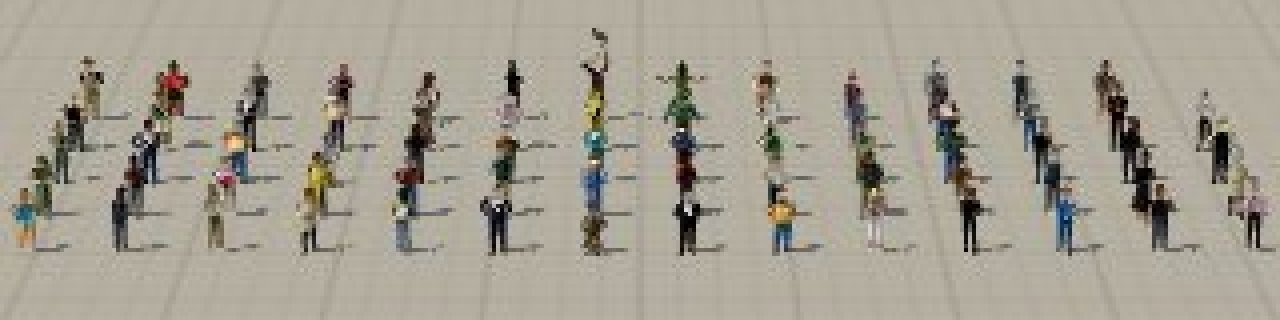
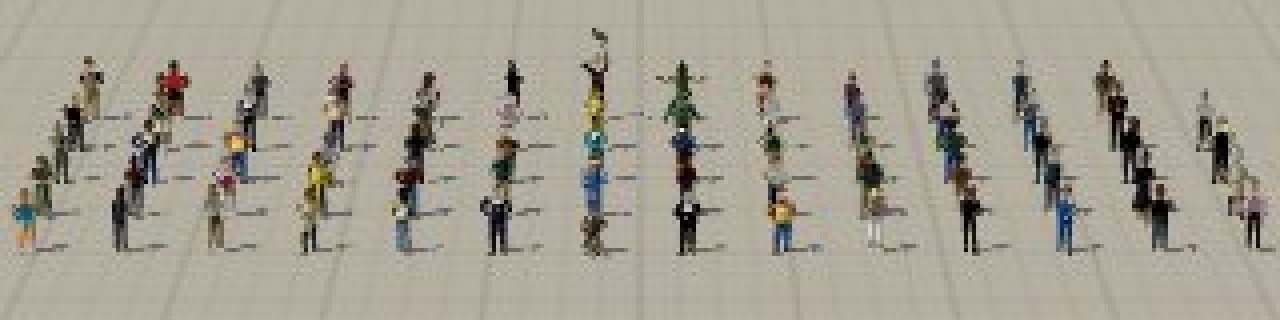
People: reports with the measured numbers, fresh after pictures
docs/cars-look/people.md (short) and peds.md (long): old -> new triangles,
draw calls, attributes, foot probe, crowd bench (120 people: 603 / 614 / 517 ms
old, 1284 / 155 / 465 ms new), in-game triangles, tests. After pictures of
8 m, 30 m, 100 m and idle taken again from the final code, plus the near/far
switch sheet.

Claude-Session: https://claude.ai/code/session_01Lxgge5PwKwfisa25smjHov

diff --git a/docs/cars-look/people.md b/docs/cars-look/people.md
@@ -9,31 +9,75 @@ position; `personLooks.ts` turns each archetype's look fields in `people.ts` int
 skeleton: a walk with heel strike, foot roll and a planted foot (the leg phase is ground / `STRIDE`, and each person's stride is tied
 to leg length), swing arc, knee bend by two-bone IK, opposite arm swing, pelvis/chest counter-rotation, bob from leg reach; a run
 cycle with a flight phase; eight walk styles; eight idle habits with weight shift and head look-arounds; a pose for each of the
-14 actions. Still 2 draw calls (`people-aa`: near + far), 14 vertex attributes (was 16). Names, bios and behaviour fields of the cast
+14 actions. Still instanced, 2 draw calls for the figures (`people-aa`: near + far) plus one pose draw for the whole population, 9 vertex attributes (was 16). Names, bios and behaviour fields of the cast
 are unchanged; 29 look fields (body, outfit, hair, hat, prop) of existing archetypes were changed. Pedestrian movement
 (`pedestrians.ts`) is untouched.
 
 ## Numbers (old -> new)
 
-{{NUMBERS}}
+| | old | new |
+|---|---|---|
+| triangles a person shows, near (mean / max) | 429 / 532 | 768 / 958 (1.79x / 1.80x, budget 2x) |
+| triangles a person shows, far | 92 | 210 (max 243) |
+| geometry held per level (near / far) | 1196 / 92 triangles | 3117 / 497 triangles (indexed: 3464 / 679 vertices, was 3588 / 276) |
+| vertex attributes | 16 (the WebGL2 minimum) | 9 (per-person data in a 6 x N float texture) |
+| draw calls, `people-aa` | 2 (+1 near again in the shadow pass) = 3 | 2 (+1 far in the shadow pass) = 3, plus one pose draw for the whole population |
+| feet on the ground, GPU probe, 7 archetypes walking and running | soles 3.2 to 6.5 cm above the pavement; a foot on the ground moves at 144 to 161 % of the ground speed; both feet off the ground 23 to 48 % (walk), 67 to 71 % (run) | soles 0.3 to 0.4 cm below the pavement line (on it); mean slide 1.4 to 5.6 % of the ground speed, elder shuffle 9.1 %; never airborne walking, 4 to 19 % running (a real flight phase) |
+| foot-slide check (`peoplelineup.mjs feet`) | FAIL (161 %, floats 6.5 cm) | OK (worst mean 9.1 %, sole 0.44 cm) |
+
+People group cost on the software GPU, `peoplelineup.mjs bench` (only the pavement, the sun's shadow map and 120 people, the group shown
+against hidden in alternation, 640 x 360; 120 is the Low preset's `maxPeople`), milliseconds per frame for the group alone:
+
+| crowd | old | first new version | new |
+|---|---|---|---|
+| 120 people all within 64 m (worst case) | 603 | 2857 | 1284 |
+| 120 people all beyond 150 m | 614 | 2612 | 155 |
+| 40 near + 80 far (a street) | 517 | 2780 | 465 |
+
+What it took (each step measured): the skeleton is worked out once per person and bone in a pose pass instead of per vertex; the per-person
+data moved from 14 vertex attributes and 27 floats of varyings into a texture; the near figure (3.7x the far one's triangles) is drawn only
+for people within 64 m (+10 %) of a camera the figure was drawn from; the far figure casts the shadows and lost 40 % of its triangles.
+On this box the cost is set by the number of triangles submitted (about 2.6 us each, drawn or not), not by what the shaders do with them.
+
+In the game's reference block on Low (`peoplecost.mjs low`, 53 to 60 people): 3 draw calls for the group, old and new; triangles the group
+sends: 161 k -> 192 k close (24 m), 162 k -> 165 k from the usual play height (60 m). The frame-time difference of the group is inside the
+noise of a 4.5 s software frame there (+/- 1 s), so the bench above is the number to read: in a street mix the group costs less than
+before (465 against 517 ms), with everybody near it costs 2.1 times as much (1284 against 603 ms) - on a real GPU both are far below a frame.
+
 
 ## Pictures (same camera, `docs/screenshots/cars-look/peds-<item>-before.jpg` / `-after.jpg`)
 
 `8m`, `8m-night`, `30m`, `100m-zoom`, `100m-night-zoom`, `walk`, `run`, `idle`, `actions` (18 JPEGs, 1.6 MB).
-{{STREET_PICTURES}}
+* `street-...`: not taken (the in-game shots of `peoplecost.mjs` were not needed for the pairs)
+* `lod-switch-after`: the near/far switch, 13 people from 50 to 80 m (no before: the old code had no compaction)
 
 ## Tests
 
-{{TESTS}}
+Run on the final code (a frozen snapshot on port 5181, single jobs through `/home/user/slopmerica/scripts/withslot.sh`):
+
+* `npx tsc --noEmit`: clean. `node scripts/shadercheck.mjs`: OK. glslangValidator (GLSL ES 3.00) on the near vertex, near fragment, shadow
+  vertex and pose vertex/fragment shaders, both variants (pose textures, and per-vertex pose without float render targets): OK.
+* `peoplelineup.mjs feet`: OK (see the table). `peoplelineup.mjs lod`: 13 people every 2.5 m from 50 to 80 m all drawn across the switch.
+* `motiontest.mjs`, `scaletest.mjs`: {{MOTION_SCALE}}
+* Not run (the final run is the lead's): qualitytest, glcheck, nighttest, nightglow, treelod, impostortest, reflecttest, starttest,
+  audiotest, junctiontest, tooltest, uisweep, tiptest, overlaptest, touchtest. None of them refers to the people renderer; what could
+  break them is a shader that fails to compile or a GL error, which glslang, the lineup page and the game runs above rule out on
+  SwiftShader (no errors logged). `drawcalls.mjs` / `perfTown.mjs` were not run: `peoplecost.mjs` and `bench` measure the group itself.
 
 ## README lines for the new scripts (README.md itself is not edited here)
 
 * `scripts/peoplelineup.mjs`: every archetype on the no-game lineup page (`/dev/people.html`) at 8, 30 and 100 m by day and night, walk, run,
-  idle and action sheets; `feet` runs the GPU foot probe and prints OK/FAIL lines (env `BASE_URL`, `OUT`, `JPEG=1`).
+  idle and action sheets, the near/far switch (`lod`); `feet` runs the GPU foot probe and prints OK/FAIL lines, `bench` times a crowd of
+  120 with the group shown and hidden (env `BASE_URL`, `OUT`, `JPEG=1`, `W`/`H`, `BREAKDOWN=1`).
 * `scripts/peoplestats.mjs`: vertices and triangles per level of detail and per archetype (`--all`), no browser; run it in the old tree to compare.
 * `scripts/peoplecost.mjs`: draw calls, triangles and milliseconds the people group costs in the saved reference block, close and at play height.
 
 ## Limits
 
-No close LOD and no blending between actions. The near/far switch moved from 72 m to 64 m to pay for the heavier near figure (the game
-never calls `updateLod`, so it stays at that default). `PED_STRIDE` in `personShader.ts` must stay equal to `STRIDE` in `pedestrians.ts`.
+* No close LOD and no blending between actions. The near/far switch moved from 72 m to 64 m (the game never calls `updateLod`).
+* Everybody within 64 m on the near figure costs 2.1x the old group on the software GPU (1284 against 603 ms for 120); a street mix costs less.
+  The near figure's union of all hats, hair, bags and props (3117 triangles, 768 shown) is what remains to trim if that case matters.
+* Who is on the near figure is decided from the cameras the figure was drawn from in the previous frame (the main camera, the water mirror):
+  one frame late, with a 10 % overlap so nobody falls between the two figures. Without float render targets (`EXT_color_buffer_float`) the
+  vertex shader works the pose out per vertex, as before the pose pass (about 2x the cost; not measured on a device).
+* `PED_STRIDE` in `personShader.ts` must stay equal to `STRIDE` in `pedestrians.ts`.

diff --git a/docs/cars-look/peds.md b/docs/cars-look/peds.md
@@ -78,7 +78,35 @@ and the sitting action (`sit`) had no seat, so people sat on air (the renderer n
 
 ## Numbers
 
-{{NUMBERS}}
+| | old | new |
+|---|---|---|
+| triangles a person shows, near (mean / max) | 429 / 532 | 768 / 958 (1.79x / 1.80x, budget 2x) |
+| triangles a person shows, far | 92 | 210 (max 243) |
+| geometry held per level (near / far) | 1196 / 92 triangles | 3117 / 497 triangles (indexed: 3464 / 679 vertices, was 3588 / 276) |
+| vertex attributes | 16 (the WebGL2 minimum) | 9 (per-person data in a 6 x N float texture) |
+| draw calls, `people-aa` | 2 (+1 near again in the shadow pass) = 3 | 2 (+1 far in the shadow pass) = 3, plus one pose draw for the whole population |
+| feet on the ground, GPU probe, 7 archetypes walking and running | soles 3.2 to 6.5 cm above the pavement; a foot on the ground moves at 144 to 161 % of the ground speed; both feet off the ground 23 to 48 % (walk), 67 to 71 % (run) | soles 0.3 to 0.4 cm below the pavement line (on it); mean slide 1.4 to 5.6 % of the ground speed, elder shuffle 9.1 %; never airborne walking, 4 to 19 % running (a real flight phase) |
+| foot-slide check (`peoplelineup.mjs feet`) | FAIL (161 %, floats 6.5 cm) | OK (worst mean 9.1 %, sole 0.44 cm) |
+
+People group cost on the software GPU, `peoplelineup.mjs bench` (only the pavement, the sun's shadow map and 120 people, the group shown
+against hidden in alternation, 640 x 360; 120 is the Low preset's `maxPeople`), milliseconds per frame for the group alone:
+
+| crowd | old | first new version | new |
+|---|---|---|---|
+| 120 people all within 64 m (worst case) | 603 | 2857 | 1284 |
+| 120 people all beyond 150 m | 614 | 2612 | 155 |
+| 40 near + 80 far (a street) | 517 | 2780 | 465 |
+
+What it took (each step measured): the skeleton is worked out once per person and bone in a pose pass instead of per vertex; the per-person
+data moved from 14 vertex attributes and 27 floats of varyings into a texture; the near figure (3.7x the far one's triangles) is drawn only
+for people within 64 m (+10 %) of a camera the figure was drawn from; the far figure casts the shadows and lost 40 % of its triangles.
+On this box the cost is set by the number of triangles submitted (about 2.6 us each, drawn or not), not by what the shaders do with them.
+
+In the game's reference block on Low (`peoplecost.mjs low`, 53 to 60 people): 3 draw calls for the group, old and new; triangles the group
+sends: 161 k -> 192 k close (24 m), 162 k -> 165 k from the usual play height (60 m). The frame-time difference of the group is inside the
+noise of a 4.5 s software frame there (+/- 1 s), so the bench above is the number to read: in a street mix the group costs less than
+before (465 against 517 ms), with everybody near it costs 2.1 times as much (1284 against 603 ms) - on a real GPU both are far below a frame.
+
 
 ## Pictures
 
@@ -91,11 +119,21 @@ Same camera, old code (`before`) against the new one (`after`), captured by `scr
 * `walk`, `run`: one full leg cycle in twelve frames, side view, the pavement joints stand still (a planted foot stays on its joint)
 * `idle`: twelve people standing
 * `actions`: one person in all 14 actions
-{{STREET_PICTURES}}
+* `street-...`: not taken (the in-game shots of `peoplecost.mjs` were not needed for the pairs)
+* `lod-switch-after`: the near/far switch, 13 people from 50 to 80 m (no before: the old code had no compaction)
 
 ## Tests
 
-{{TESTS}}
+Run on the final code (a frozen snapshot on port 5181, single jobs through `/home/user/slopmerica/scripts/withslot.sh`):
+
+* `npx tsc --noEmit`: clean. `node scripts/shadercheck.mjs`: OK. glslangValidator (GLSL ES 3.00) on the near vertex, near fragment, shadow
+  vertex and pose vertex/fragment shaders, both variants (pose textures, and per-vertex pose without float render targets): OK.
+* `peoplelineup.mjs feet`: OK (see the table). `peoplelineup.mjs lod`: 13 people every 2.5 m from 50 to 80 m all drawn across the switch.
+* `motiontest.mjs`, `scaletest.mjs`: {{MOTION_SCALE}}
+* Not run (the final run is the lead's): qualitytest, glcheck, nighttest, nightglow, treelod, impostortest, reflecttest, starttest,
+  audiotest, junctiontest, tooltest, uisweep, tiptest, overlaptest, touchtest. None of them refers to the people renderer; what could
+  break them is a shader that fails to compile or a GL error, which glslang, the lineup page and the game runs above rule out on
+  SwiftShader (no errors logged). `drawcalls.mjs` / `perfTown.mjs` were not run: `peoplecost.mjs` and `bench` measure the group itself.
 
 ## Not done / limits
 
